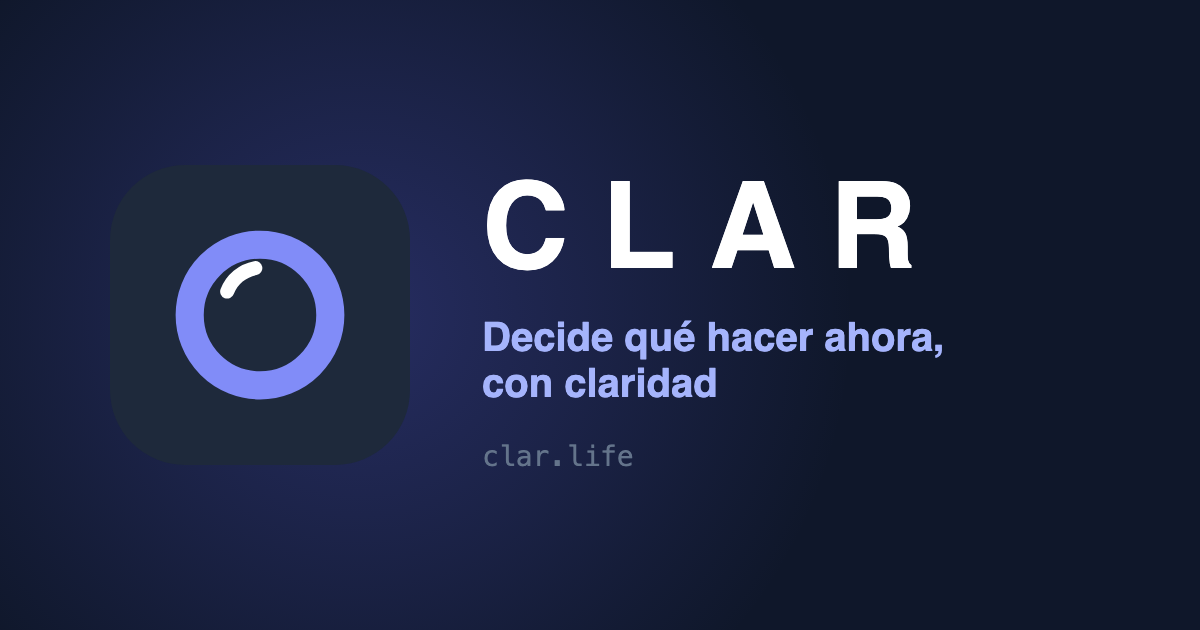
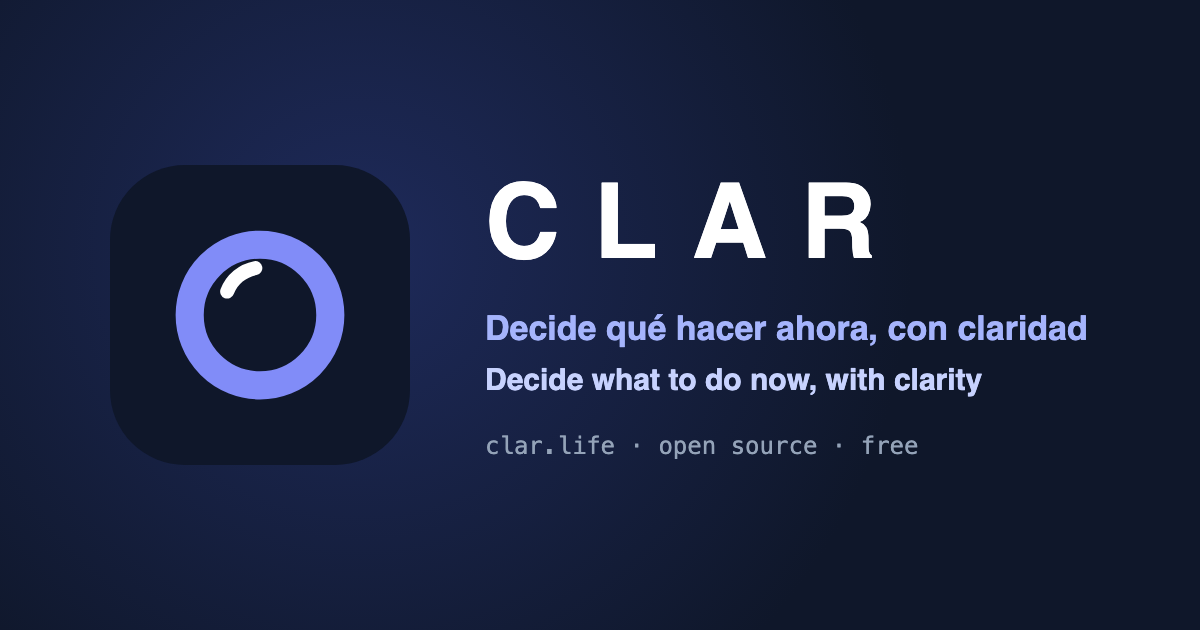
feat(launch): 1.2.1 — ready to share: ?lang=en link, bilingual link card, README in English with screenshots
Honest data claim on the landing, technical logs in the privacy policy (31 Oct 2026), SECURITY.md, license holder, anti-framing headers, default Android package for local runs, .gitignore, neutral test URL, calmer README wording.

diff --git a/src/components/LegalTexts.tsx b/src/components/LegalTexts.tsx
@@ -121,6 +121,12 @@ const PrivacyPolicyEs: React.FC = () => (
           Android; el de Mozilla, Apple o Microsoft en sus navegadores), que la recibe cifrada.
         </li>
         <li>
+          <strong>Registros técnicos:</strong> al usar CLAR, los servicios de Google que la sirven (Firebase Hosting,
+          Authentication y Cloud Functions) registran datos técnicos de cada acceso, como la dirección IP, el navegador
+          y la hora. Los registros propios de CLAR solo llevan recuentos y códigos de error, sin tus datos. Sirven para
+          la seguridad y para detectar y corregir fallos.
+        </li>
+        <li>
           <strong>En tu dispositivo:</strong> CLAR usa el almacenamiento local de tu navegador (Local Storage e
           IndexedDB) y la sesión de Firebase exclusivamente por motivos técnicos. Guarda la sesión, una copia de tus
           datos para usar la app sin conexión (se borra al cerrar sesión; ver «Cuánto tiempo se guardan») y algunas
@@ -213,6 +219,7 @@ const PrivacyPolicyEs: React.FC = () => (
       <List>
         <li>Tu cuenta y lo que escribes: hasta que lo borres o elimines la cuenta.</li>
         <li>Registro de acceso y mensajes de «Escríbenos»: hasta que elimines la cuenta.</li>
+        <li>Registros técnicos: 30 días.</li>
         <li>
           Funciones extra: hasta que la administración te las quite o te retire o bloquee el acceso, o elimines la
           cuenta.
@@ -550,6 +557,12 @@ const PrivacyPolicyEn: React.FC<EnglishTextProps> = ({ onShowSpanish }) => (
           Android; Mozilla's, Apple's or Microsoft's in their browsers), which receives it encrypted.
         </li>
         <li>
+          <strong>Technical logs:</strong> when you use CLAR, the Google services that run it (Firebase Hosting,
+          Authentication and Cloud Functions) log technical data about each request, such as the IP address, the browser
+          and the time. CLAR's own logs only contain counts and error codes, none of your data. They are used for
+          security and to detect and fix problems.
+        </li>
+        <li>
           <strong>On your device:</strong> CLAR uses your browser's local storage (Local Storage and IndexedDB) and the
           Firebase session for technical purposes only. It stores the session, a copy of your data to use the app
           offline (deleted when you sign out; see “How long we keep it”) and some preferences: the app language,
@@ -641,6 +654,7 @@ const PrivacyPolicyEn: React.FC<EnglishTextProps> = ({ onShowSpanish }) => (
       <List>
         <li>Your account and what you write: until you delete it or delete your account.</li>
         <li>Access record and “Contact us” messages: until you delete your account.</li>
+        <li>Technical logs: 30 days.</li>
         <li>
           Extra features: until the administrator removes them from you or withdraws or blocks your access, or you
           delete your account.

diff --git a/src/i18n/locale.ts b/src/i18n/locale.ts
@@ -31,9 +31,29 @@ const read = (key: string) => {
 
 // El idioma de esta carga de la página. En los entornos sin navegador (pruebas, servidor), español; las pruebas
 // pueden fijar otro con globalThis.__CLAR_LOCALE__
+// Un enlace con ?lang=en (o ?lang=es) abre CLAR en ese idioma y lo deja elegido en el dispositivo, como si se hubiera
+// pulsado en el selector (pasa a la cuenta al entrar). El parámetro se quita de la dirección (consumeLocaleParam)
+const LANG_PARAM = 'lang';
+const fromUrl = (): Locale | null => {
+  if (typeof window === 'undefined') return null;
+  const value = new URLSearchParams(window.location.search).get(LANG_PARAM);
+  return isLocale(value) ? value : null;
+};
 const initial = (): Locale => {
   const forced = (globalThis as { __CLAR_LOCALE__?: unknown }).__CLAR_LOCALE__;
   if (isLocale(forced)) return forced;
+  const linked = fromUrl();
+  if (linked) {
+    try {
+      if (localStorage.getItem(STORAGE_KEY) !== linked) {
+        localStorage.setItem(STORAGE_KEY, linked);
+        localStorage.setItem(PENDING_KEY, '1');
+      }
+    } catch {
+      // Sin almacenamiento: vale para esta carga
+    }
+    return linked;
+  }
   const saved = typeof window === 'undefined' ? null : read(STORAGE_KEY);
   return isLocale(saved) ? saved : 'es';
 };
@@ -130,6 +150,15 @@ export const accountLanguageSync = ({
   if (pending || !isLocale(account)) return { action: 'save', language: stored ?? page };
   if (account === page) return { action: 'none' };
   return { action: 'adopt', language: account, reload: sinceOpenMs <= ADOPT_WINDOW_MS };
+};
+
+// Quita ?lang= de la dirección (ya se aplicó al cargar): así recargar o compartir la página no lo repite
+export const consumeLocaleParam = () => {
+  if (typeof window === 'undefined') return;
+  const url = new URL(window.location.href);
+  if (!url.searchParams.has(LANG_PARAM)) return;
+  url.searchParams.delete(LANG_PARAM);
+  window.history.replaceState(window.history.state, '', url);
 };
 
 // <html lang> según el idioma (lectores de pantalla, traductores, corrección ortográfica)

diff --git a/index.html b/index.html
@@ -3,15 +3,15 @@
   <head>
     <meta charset="UTF-8" />
     <meta name="viewport" content="width=device-width, initial-scale=1.0, viewport-fit=cover" />
-    <title>CLAR</title>
+    <title>CLAR · Decide qué hacer ahora, con claridad</title>
     <meta
       name="description"
-      content="CLAR: decide qué hacer ahora, con claridad. Rueda de la Vida, metas por área, listas profesional y personal con Top 10, agenda con alarmas, estadísticas y protección frente a interrupciones. · CLAR: decide what to do now, with clarity. Wheel of Life, goals by area, work and personal lists with a Top 10, an agenda with alarms, statistics and protection from interruptions."
+      content="CLAR: decide qué hacer ahora, con claridad. App gratuita y de código abierto · Decide what to do now, with clarity. Free and open source."
     />
     <meta property="og:title" content="CLAR" />
     <meta
       property="og:description"
-      content="CLAR: decide qué hacer ahora, con claridad. Rueda de la Vida, metas por área, listas profesional y personal con Top 10, agenda con alarmas, estadísticas y protección frente a interrupciones. · CLAR: decide what to do now, with clarity. Wheel of Life, goals by area, work and personal lists with a Top 10, an agenda with alarms, statistics and protection from interruptions."
+      content="CLAR: decide qué hacer ahora, con claridad. App gratuita y de código abierto · Decide what to do now, with clarity. Free and open source."
     />
     <meta property="og:type" content="website" />
     <meta property="og:url" content="https://clar.life/" />

diff --git a/src/components/LoginScreen.tsx b/src/components/LoginScreen.tsx
@@ -102,7 +102,7 @@ const m = messages<{
     featuresLabel: 'Qué hace CLAR',
     yourData: 'Tus datos',
     dataStored:
-      'Se guardan en la Unión Europea y solo tú los ves. Puedes descargarlos o borrarlos cuando quieras. Sin anuncios ni analítica.',
+      'Se guardan en tu cuenta, en la Unión Europea, y nadie más los ve en la app. Puedes descargarlos o borrarlos cuando quieras. Sin anuncios ni analítica.',
     install: 'Instálala en el móvil desde el navegador: «Añadir a la pantalla de inicio».',
     openSource: 'Código abierto (licencia MIT):',
     code: 'el código en GitHub',
@@ -155,7 +155,7 @@ const m = messages<{
     featuresLabel: 'What CLAR does',
     yourData: 'Your data',
     dataStored:
-      "It's stored in the European Union and only you can see it. You can download or delete it whenever you want. No ads, no analytics.",
+      "It's stored in your account, in the European Union, and nobody else sees it in the app. You can download or delete it whenever you want. No ads, no analytics.",
     install: 'Install it on your phone from the browser: “Add to Home Screen”.',
     openSource: 'Open source (MIT license):',
     code: 'the code on GitHub',

diff --git a/tests/e2e/language.spec.ts b/tests/e2e/language.spec.ts
@@ -90,3 +90,15 @@ test('the account menu switches the language and saves it in the account; the ac
   await expect(page.locator('html')).toHaveAttribute('lang', 'es', { timeout: 15_000 });
   await expect(page.getByRole('button', { name: 'Listas', exact: true }).first()).toBeVisible();
 });
+
+test('a link with ?lang=en opens CLAR in English, keeps it and cleans the address', async ({ page }) => {
+  await page.goto('/?lang=en');
+  await expect(page.locator('html')).toHaveAttribute('lang', 'en');
+  await expect(page.getByRole('button', { name: 'Continue with Google' })).toBeVisible();
+  expect(new URL(page.url()).searchParams.has('lang')).toBe(false);
+  await page.reload();
+  await expect(page.locator('html')).toHaveAttribute('lang', 'en');
+  // Y de vuelta, con ?lang=es
+  await page.goto('/?lang=es');
+  await expect(page.getByRole('button', { name: 'Continuar con Google' })).toBeVisible();
+});

diff --git a/src/services/releaseNotes.ts b/src/services/releaseNotes.ts
@@ -24,6 +24,22 @@ const released = (year: number, month: number) => monthFormat.format(Date.UTC(ye
 
 export const RELEASE_NOTES: readonly ReleaseNote[] = [
   {
+    version: '1.2.1',
+    month: released(2026, 10),
+    changes: [
+      messages(
+        {
+          title: 'Arreglos',
+          text: 'Un área de la Rueda que renombraste ya no vuelve a su nombre de partida, y la página de entrada y la política de privacidad explican mejor quién ve tus datos y qué registros técnicos se guardan.'
+        },
+        {
+          title: 'Fixes',
+          text: 'A Wheel area you renamed no longer goes back to its starting name, and the sign-in page and the privacy policy explain better who sees your data and which technical logs are kept.'
+        }
+      )
+    ]
+  },
+  {
     version: '1.2.0',
     month: released(2026, 10),
     changes: [

diff --git a/src/services/legal.ts b/src/services/legal.ts
@@ -39,9 +39,9 @@ export const MIN_AGE = 14;
 
 // Fecha de la versión vigente de los textos legales: cámbiala con cada cambio de contenido. Es también la versión de las
 // condiciones que acepta cada cuenta (se guarda tal cual, en español, sea cual sea el idioma de la app)
-export const LEGAL_UPDATED = '30 de octubre de 2026';
+export const LEGAL_UPDATED = '31 de octubre de 2026';
 // La misma fecha, en el idioma de la app: cámbiala junto con LEGAL_UPDATED (una prueba unitaria lo comprueba)
-export const LEGAL_UPDATED_LABEL = messages<string>(LEGAL_UPDATED, '30 October 2026');
+export const LEGAL_UPDATED_LABEL = messages<string>(LEGAL_UPDATED, '31 October 2026');
 
 // Quién envía los emails de CLAR (encargado del tratamiento)
 export const EMAIL_PROVIDER = 'IONOS';

diff --git a/tests/e2e/agenda.spec.ts b/tests/e2e/agenda.spec.ts
@@ -136,7 +136,7 @@ test('on a phone, a title with a long link wraps and the page does not get wider
   await page.goto('/');
   await signInWithGoogle(page);
   await openSection(page, 'Listas');
-  const title = 'Revisar https://deardoc.example/boards/9929382056/views/2108790123456789012345678901234567';
+  const title = 'Revisar https://tracker.example/boards/9929382056/views/2108790123456789012345678901234567';
   await page.getByRole('button', { name: 'Añadir la primera tarea' }).click();
   await fillAndSaveTask(page, { title, dueDate: localDateFromToday(0), dueTime: '23:59' });
   const widerBy = () => page.evaluate(() => document.documentElement.scrollWidth - window.innerWidth);

diff --git a/src/main.tsx b/src/main.tsx
@@ -3,11 +3,12 @@ import { Root } from './Root.tsx';
 import './index.css';
 import { applyA11yPrefs, loadA11yPrefs } from './services/a11yPrefs';
 import { registerServiceWorker } from './services/notifications';
-import { applyDocumentLocale } from './i18n/locale';
+import { applyDocumentLocale, consumeLocaleParam } from './i18n/locale';
 
 // Preferencias de accesibilidad y el idioma de la página antes del primer render, para que no haya parpadeo
 applyA11yPrefs(loadA11yPrefs());
 applyDocumentLocale();
+consumeLocaleParam();
 
 createRoot(document.getElementById('root')!).render(<Root />);
 

diff --git a/functions/src/app.ts b/functions/src/app.ts
@@ -6,6 +6,8 @@ import { defineString } from 'firebase-functions/params';
 // Parámetros de Digital Asset Links. `firebase deploy` pide los valores la primera vez
 // y los guarda en functions/.env.<project-id> (ignorado por git).
 const androidPackageName = defineString('ANDROID_PACKAGE_NAME', {
+  // Sin configurar (p. ej. al probar en local), uno de ejemplo: no coincide con ninguna APK
+  default: 'com.example.clar',
   description: 'Package name de la APK Android (TWA)'
 });
 const androidSha256Fingerprint = defineString('ANDROID_SHA256_FINGERPRINT', {

diff --git a/README.md b/README.md
@@ -1,17 +1,50 @@
-# CLAR — Plataforma de Gestión del Tiempo y Neurociencia Aplicada
+# CLAR — decide qué hacer ahora, con claridad
 
-[![License: MIT](https://img.shields.io/badge/License-MIT-blue.svg)](https://opensource.org/licenses/MIT)
-[![Version](https://img.shields.io/badge/Version-1.0.0-indigo.svg)](#)
+[![CI](https://github.com/OvidiuMM/neuroproductivity-platform/actions/workflows/ci.yml/badge.svg?branch=main)](https://github.com/OvidiuMM/neuroproductivity-platform/actions/workflows/ci.yml)
+[![Release](https://img.shields.io/github/v/release/OvidiuMM/neuroproductivity-platform?color=4f46e5)](https://github.com/OvidiuMM/neuroproductivity-platform/releases)
+[![License: MIT](https://img.shields.io/badge/License-MIT-blue.svg)](LICENSE)
 [![React](https://img.shields.io/badge/React-19-61dafb.svg?logo=react&logoColor=black)](https://react.dev/)
 [![TypeScript](https://img.shields.io/badge/TypeScript-7.x-3178c6.svg?logo=typescript&logoColor=white)](https://www.typescriptlang.org/)
-[![Tailwind CSS](https://img.shields.io/badge/Tailwind_CSS-4.x-38bdf8.svg?logo=tailwindcss&logoColor=white)](https://tailwindcss.com/)
-[![Architecture](https://img.shields.io/badge/Architecture-Offline--First-emerald.svg)](#-arquitectura-y-modelo-de-datos)
+[![Firebase](https://img.shields.io/badge/Firebase-Auth%20·%20Firestore%20·%20Functions-ffca28.svg?logo=firebase&logoColor=black)](https://firebase.google.com/)
 
-Plataforma web de **gestión del tiempo y neuroproductividad**, publicada en https://clar.life. Hasta la versión 0.7 se llamaba NeuroProductividad.
+**CLAR** es una app web gratuita y de código abierto para organizar tu tiempo: evalúas tu Rueda de la Vida, conviertes
+lo que quieres mejorar en metas y proyectos, y cada día decides qué hacer con un Top 10 y una agenda con alarmas.
+Funciona sin conexión y en español o en inglés. Pruébala en **https://clar.life**.
 
-> Algunas ideas de esta app se inspiran en el libro _Gestiona tu tiempo, disfruta de la vida_, de Jonathan Benito Sipos. Este proyecto no está afiliado ni respaldado por el autor.
+![CLAR: la lista de tareas con el Top 10](docs/screenshots/lists-en.png)
 
-El sistema rechaza las restricciones coercitivas (como las rotaciones atencionales arbitrarias o las "Tareas Muro" matutinas únicas), sustituyéndolas por un **andamiaje digital para la corteza prefrontal** que combina evaluación holística de la satisfacción vital, jerarquía visual basada en leyes de Gestalt, inferencia léxica TF-IDF y blindaje de la atención frente a interrupciones crónicas.
+> Algunas ideas de esta app se inspiran en el libro _Gestiona tu tiempo, disfruta de la vida_, de Jonathan Benito Sipos.
+> Este proyecto no está afiliado ni respaldado por el autor. Hasta la versión 0.7 se llamaba NeuroProductividad.
+
+CLAR no es una herramienta clínica ni científica: aplica ideas sencillas de gestión del tiempo (prioridades claras,
+tareas concretas y tiempo protegido frente a interrupciones) para que sepas qué hacer ahora sin perderte en listas
+infinitas.
+
+## In English
+
+**CLAR** is a free, open-source web app (PWA) to organize your time: rate your Wheel of Life, turn what you want to
+improve into goals and projects, and decide what to do each day with a Top 10 and an agenda with alarms. It works
+offline, in Spanish or English.
+
+- **Try it:** https://clar.life/?lang=en
+- **Stack:** React 19, TypeScript, Vite, Tailwind CSS 4 and Firebase (Auth, Firestore with offline cache, Cloud
+  Functions, Hosting, Cloud Messaging). Tests with Node's test runner, the Firebase emulators and Playwright.
+- **Run it locally** (Node.js ≥ 22.12 and Java 21 for the emulators; no Firebase account needed):
+
+  ```bash
+  git clone https://github.com/OvidiuMM/neuroproductivity-platform.git && cd neuroproductivity-platform
+  npm ci && npm ci --prefix functions && npm ci --prefix tools/eslint
+  npm run dev   # emulators + app; sign in with the emulated Google account admin@example.com
+  ```
+
+- **Contributing:** issues and pull requests are welcome. The docs and code comments are in Spanish; see
+  [Instalación y Puesta en Marcha](#-instalación-y-puesta-en-marcha) for every script and
+  [docs/requisitos.md](docs/requisitos.md) for the requirements. Security reports: [SECURITY.md](SECURITY.md).
+- **License:** [MIT](LICENSE).
+
+|                          Sign-in page                           |                         On the phone                          |
+| :-------------------------------------------------------------: | :-----------------------------------------------------------: |
+| ![The sign-in page in English](docs/screenshots/landing-en.png) | ![The lists on a phone](docs/screenshots/lists-mobile-en.png) |
 
 ---
 
@@ -74,7 +107,7 @@ La lista completa y numerada de lo que hace la app, con sus requisitos no funcio
 
 ### 3. Listas y jerarquía visual
 
-- **Segregación Estricta:** Separación absoluta entre la **Lista Profesional** y la **Lista Personal** para erradicar el coste metabólico asociado al cambio de contexto (_context-switching_).
+- **Dos listas separadas:** la **Lista Profesional** y la **Lista Personal** no se mezclan, para no saltar de un contexto a otro sin querer.
 - **Jerarquía visual (Top 10):** en lugar de limitar el inventario, las 10 primeras tareas se destacan con tipografía más marcada, elevación y más espacio; de la 11 en adelante se muestran planas y más discretas.
 - **Orden y filtros del Top 10:** por prioridad efectiva, fecha límite, estimación, actualización o área, y filtros por prioridad, estimación máxima, estado, plazo y área. Se guardan en cada dispositivo y el resumen «Top 10» cuenta lo mismo que muestra la lista.
 - **Prioridad efectiva y estimación:** si la fecha límite está a más de una semana, la tarea cuenta un nivel menos de prioridad (las tareas sin fecha mantienen la suya). Cada tarea puede llevar una estimación de duración, visible en todas las listas.
@@ -103,9 +136,9 @@ La lista completa y numerada de lo que hace la app, con sus requisitos no funcio
 
 ### 6. Tiempo protegido: el triángulo de las Bermudas
 
-- **Auditoría y Bloqueo de Reuniones Matutinas:** Bloqueo heurístico inquebrantable de reuniones convocadas antes de las 12:00 h (franja biológica de máxima demanda cognitiva y concentración profunda), sugiriendo su reubicación hacia las 13:00 h (hora valle).
-- **Triple Validación Obligatoria:** Toda reunión exige hora de inicio y de fin (la de fin, posterior), orden del día cerrado no vacío y un moderador nominal responsable.
-- **Redacción Inversa de Correo Electrónico:** Secuencia contra-intuitiva donde los adjuntos y el cuerpo del mensaje deben redactarse primero, manteniendo bloqueado el campo de **Destinatarios** hasta que el contenido esté validado. Alerta en tiempo real si el texto supera la dimensión estándar libre de scroll (_no-scroll_).
+- **Mañanas sin reuniones:** no deja programar reuniones antes de las 12:00 h, para reservar las mañanas al trabajo concentrado, y propone moverlas a las 13:00 h.
+- **Reuniones con lo necesario:** toda reunión exige hora de inicio y de fin (la de fin, posterior), orden del día cerrado no vacío y un moderador nominal responsable.
+- **Correos pensados antes de enviarlos:** primero los adjuntos y el cuerpo del mensaje; el campo de **Destinatarios** se desbloquea al final. Alerta en tiempo real si el texto supera la dimensión estándar libre de scroll (_no-scroll_).
 - **CLAR no envía correos:** los guarda (también a medias, como borradores), apunta de los adjuntos solo el nombre y el tamaño y, con «Abrir en mi correo», los pasa al programa de correo (ver [Borradores de correo](#borradores-de-correo-092)).
 
 ### Cuentas, Inicio, Agenda y accesibilidad
@@ -211,6 +244,13 @@ La lista completa y numerada de lo que hace la app, con sus requisitos no funcio
 - **Cómo se traduce:** `messages(es, en)` de `src/i18n/locale.ts`, junto a cada texto; el inglés tiene que tener la misma forma que el español o no compila. Fechas y números con `LOCALE_TAG` (`en-GB` en inglés). Las áreas de partida de la Rueda sin renombrar se guardan con su identificador y se ven en el idioma de la app (`storableAreas`).
 - **Servidor:** `functions/src/i18n.ts` y `callable.ts`: los errores en el idioma de quien llama, los emails a la persona en el suyo (los de la administración, en español), las notificaciones push en el de cada dispositivo (`push_devices/{uid}/tokens/{id}.language`) y los eventos de Google Calendar en el de la cuenta.
 - **Textos legales en inglés:** traducción con el aviso de que vale la versión en español. Al contacto se puede escribir en español o en inglés.
+
+### Lista para compartir (1.2.1)
+
+- **Enlace en inglés:** `https://clar.life/?lang=en` abre CLAR en inglés y lo deja elegido (`consumeLocaleParam` quita el parámetro de la dirección).
+- **Tarjeta del enlace** bilingüe (`public/og-image.png`) y descripciones más cortas; README con portada en inglés y capturas (`docs/screenshots/`), `SECURITY.md`, la licencia con su titular.
+- **Cabeceras:** `X-Frame-Options: SAMEORIGIN` y `frame-ancestors 'self'` (la app no se puede incrustar en otras webs).
+- **Arreglos:** un área renombrada no se toma por una de partida; elegir el idioma que ya se ve no lo cambia en la cuenta; la política de privacidad describe los registros técnicos (30 días).
 
 ---
 

diff --git a/docs/requisitos.md b/docs/requisitos.md
@@ -1,9 +1,9 @@
 # Requisitos del sistema — CLAR
 
-- **Versión:** 1.2.0
-- **Última revisión:** 2026-10-30
+- **Versión:** 1.2.1
+- **Última revisión:** 2026-10-31
 
-Este documento describe qué hace CLAR en la versión 1.2.0: sus requisitos funcionales y no funcionales tal como están implementados en el código de esta versión (la SPA de `src/`, las Cloud Functions de `functions/src/`, las reglas de Firestore, la configuración de Firebase Hosting y las pruebas). No recoge planes ni funciones futuras. Donde el README y el código no coinciden, manda el código.
+Este documento describe qué hace CLAR en la versión 1.2.1: sus requisitos funcionales y no funcionales tal como están implementados en el código de esta versión (la SPA de `src/`, las Cloud Functions de `functions/src/`, las reglas de Firestore, la configuración de Firebase Hosting y las pruebas). No recoge planes ni funciones futuras. Donde el README y el código no coinciden, manda el código.
 
 **Convenciones.** RF: requisito funcional. RNF: requisito no funcional. Los identificadores son estables: un requisito nuevo toma el siguiente número libre de su sección y uno retirado no se reutiliza. Los textos entre «» son etiquetas de la interfaz. «Origen» señala los archivos principales de cada sección.
 
@@ -304,7 +304,7 @@ Origen: `src/AuthGate.tsx`, `src/AccessGate.tsx`, `src/services/auth.ts`, `src/s
 - **RF-CUE-30.** «Funciones extra», en el menú de la cuenta, muestra las que la persona administradora le ha activado, con su descripción y sin interruptor. La persona administradora las tiene todas, con un interruptor por función: empiezan apagadas y lo que elige se guarda en su perfil.
 - **RF-CUE-31.** «Compartir CLAR», en el menú de la cuenta, abre el menú de compartir del dispositivo con el nombre, la frase de la app y su dirección; donde no lo hay, copia la dirección y lo dice. Cerrar el menú de compartir no es un error.
 - **RF-CUE-32.** Sin sesión iniciada, la pantalla de entrada es también la página de presentación: qué es CLAR (la Rueda, las metas y proyectos, el Top 10, la agenda y las alarmas, el tiempo protegido, el dictado y el uso sin conexión), cómo se tratan los datos, que es de código abierto (con enlace al repositorio) y, al lado (debajo en el móvil), cómo entrar. «Crear cuenta gratis» lleva al formulario en «Crear una cuenta», y «Ya tengo cuenta», a «Entrar». Las funciones extra no se anuncian. Al compartir el enlace, se ve una tarjeta con el logo, el nombre y la frase (Open Graph, `public/og-image.png`).
-- **RF-CUE-33.** La app está en español (por defecto) o en inglés. «Español / English» está arriba en la página de inicio y en el menú de la cuenta; al cambiarlo, la app se vuelve a cargar en ese idioma. La elección se guarda en el dispositivo y en la cuenta (`users/{uid}.language`): elegida antes de entrar, pasa a la cuenta al entrar; si no, al abrir la app manda la de la cuenta (solo al abrirla, no mientras se usa). Se traducen la interfaz, la ayuda, las novedades, los textos legales (en inglés, con el aviso de que vale la versión en español y un botón para cambiar a ella), los emails a la persona (verificación y contraseña, acceso aprobado, respuestas a sus mensajes), las notificaciones push (cada dispositivo registra su idioma), los mensajes de error del servidor y los eventos de Google Calendar. Lo que escribe la persona no se traduce; las áreas de partida de la Rueda sin renombrar se ven en el idioma de la app. Las fechas y los números siguen el idioma (en inglés, con el formato europeo: 24 h y el día antes que el mes) y el dictado se hace en él. Los emails a la administración siguen en español. Los accesos directos del icono y la descripción del enlace al compartir van en los dos idiomas.
+- **RF-CUE-33.** La app está en español (por defecto) o en inglés. «Español / English» está arriba en la página de inicio y en el menú de la cuenta; al cambiarlo, la app se vuelve a cargar en ese idioma. Un enlace con `?lang=en` (o `?lang=es`) abre la app en ese idioma y lo deja elegido como si se hubiera pulsado; el parámetro se quita de la dirección. La elección se guarda en el dispositivo y en la cuenta (`users/{uid}.language`): elegida antes de entrar, pasa a la cuenta al entrar; si no, al abrir la app manda la de la cuenta (solo al abrirla, no mientras se usa). Se traducen la interfaz, la ayuda, las novedades, los textos legales (en inglés, con el aviso de que vale la versión en español y un botón para cambiar a ella), los emails a la persona (verificación y contraseña, acceso aprobado, respuestas a sus mensajes), las notificaciones push (cada dispositivo registra su idioma), los mensajes de error del servidor y los eventos de Google Calendar. Lo que escribe la persona no se traduce; las áreas de partida de la Rueda sin renombrar se ven en el idioma de la app. Las fechas y los números siguen el idioma (en inglés, con el formato europeo: 24 h y el día antes que el mes) y el dictado se hace en él. Los emails a la administración siguen en español. Los accesos directos del icono y la descripción del enlace al compartir van en los dos idiomas.
 
 ### 1.11 Administración (RF-ADM)
 
